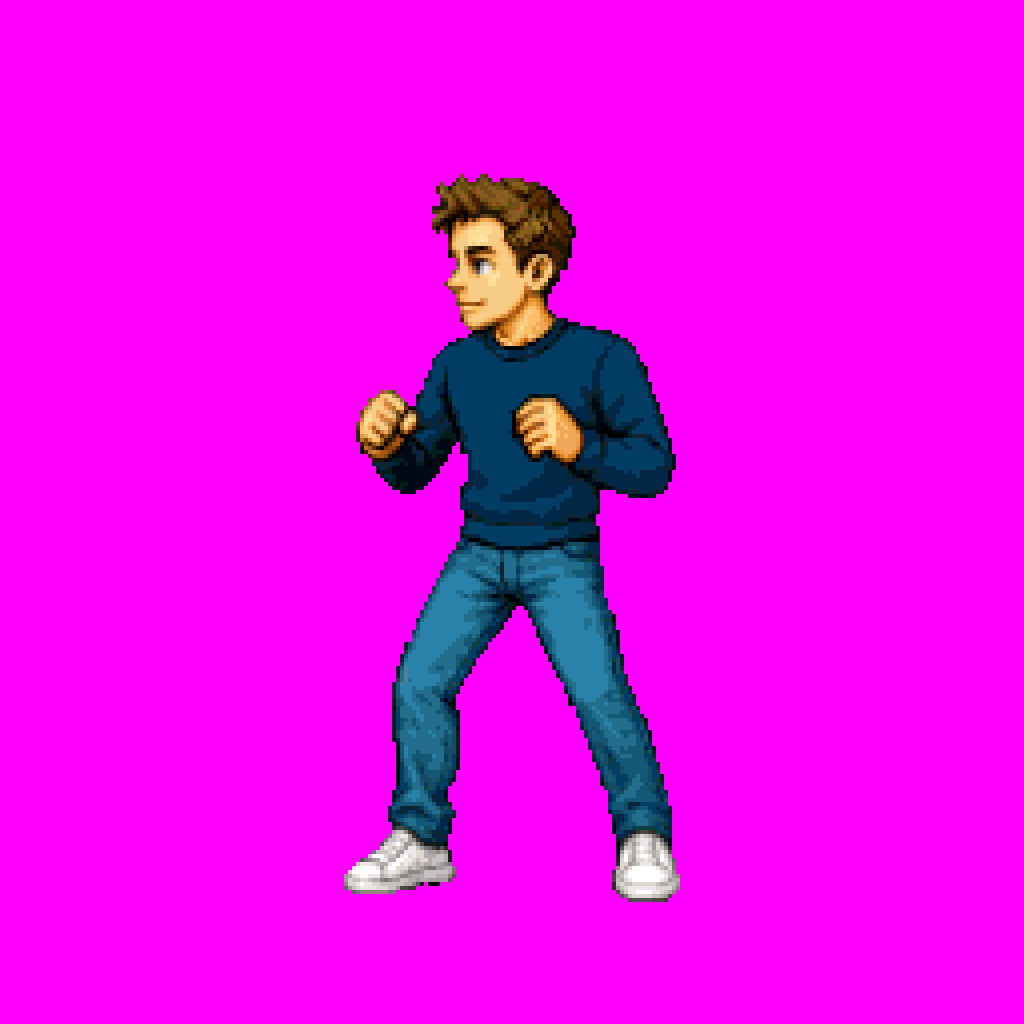
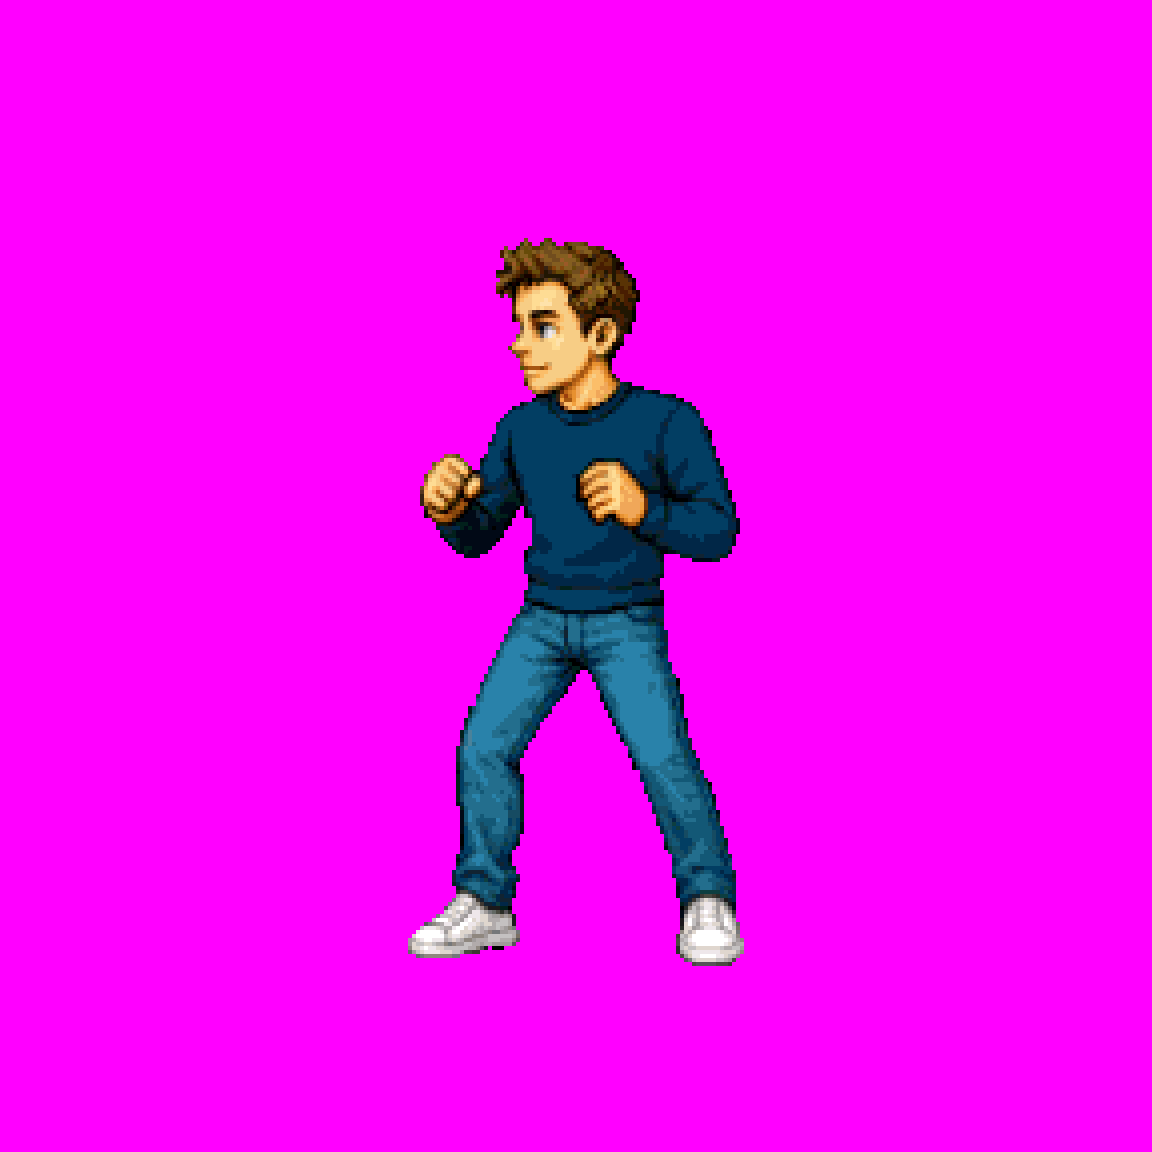
Final Altman reference on magenta

Changed region(s): [[0.3125, 0.1562, 0.6875, 0.9062]]

diff --git a/characters/README.md b/characters/README.md
@@ -8,6 +8,6 @@ The approved look for all four fighters. Start every clip from that fighter's re
 | `elon_reference.png` | Final |
 | `zuckerberg_reference.png` | Final (keeps the gold chain; it must appear in every clip) |
 | `ambani_reference.png` | Final |
-| `altman_reference.png` | Interim: your green original with the background swapped to magenta by us. You are redoing Altman; deliver the new one on magenta `#FF00FF` as `altman_reference.png`. |
+| `altman_reference.png` | Final (magenta `#FF00FF`; all Altman files stay on magenta) |
 
 Proportions are realistic (not big-head caricature). Keep all later files at these proportions.

diff --git a/CHANGELOG.md b/CHANGELOG.md
@@ -2,6 +2,9 @@
 
 Newest first. After every `git pull`, read the entries since your last pull.
 
+## 2026-10-14: Altman reference final
+- `characters/altman_reference.png` replaced with your new magenta version. All four references are now final. Start Altman's clips from this one.
+
 ## 2026-10-14: characters finalised
 - Added `characters/`: the lineup and all 4 references. Start every clip from these.
 - Proportions stay realistic as in these images (the brief's "head about 1/5" no longer applies).
